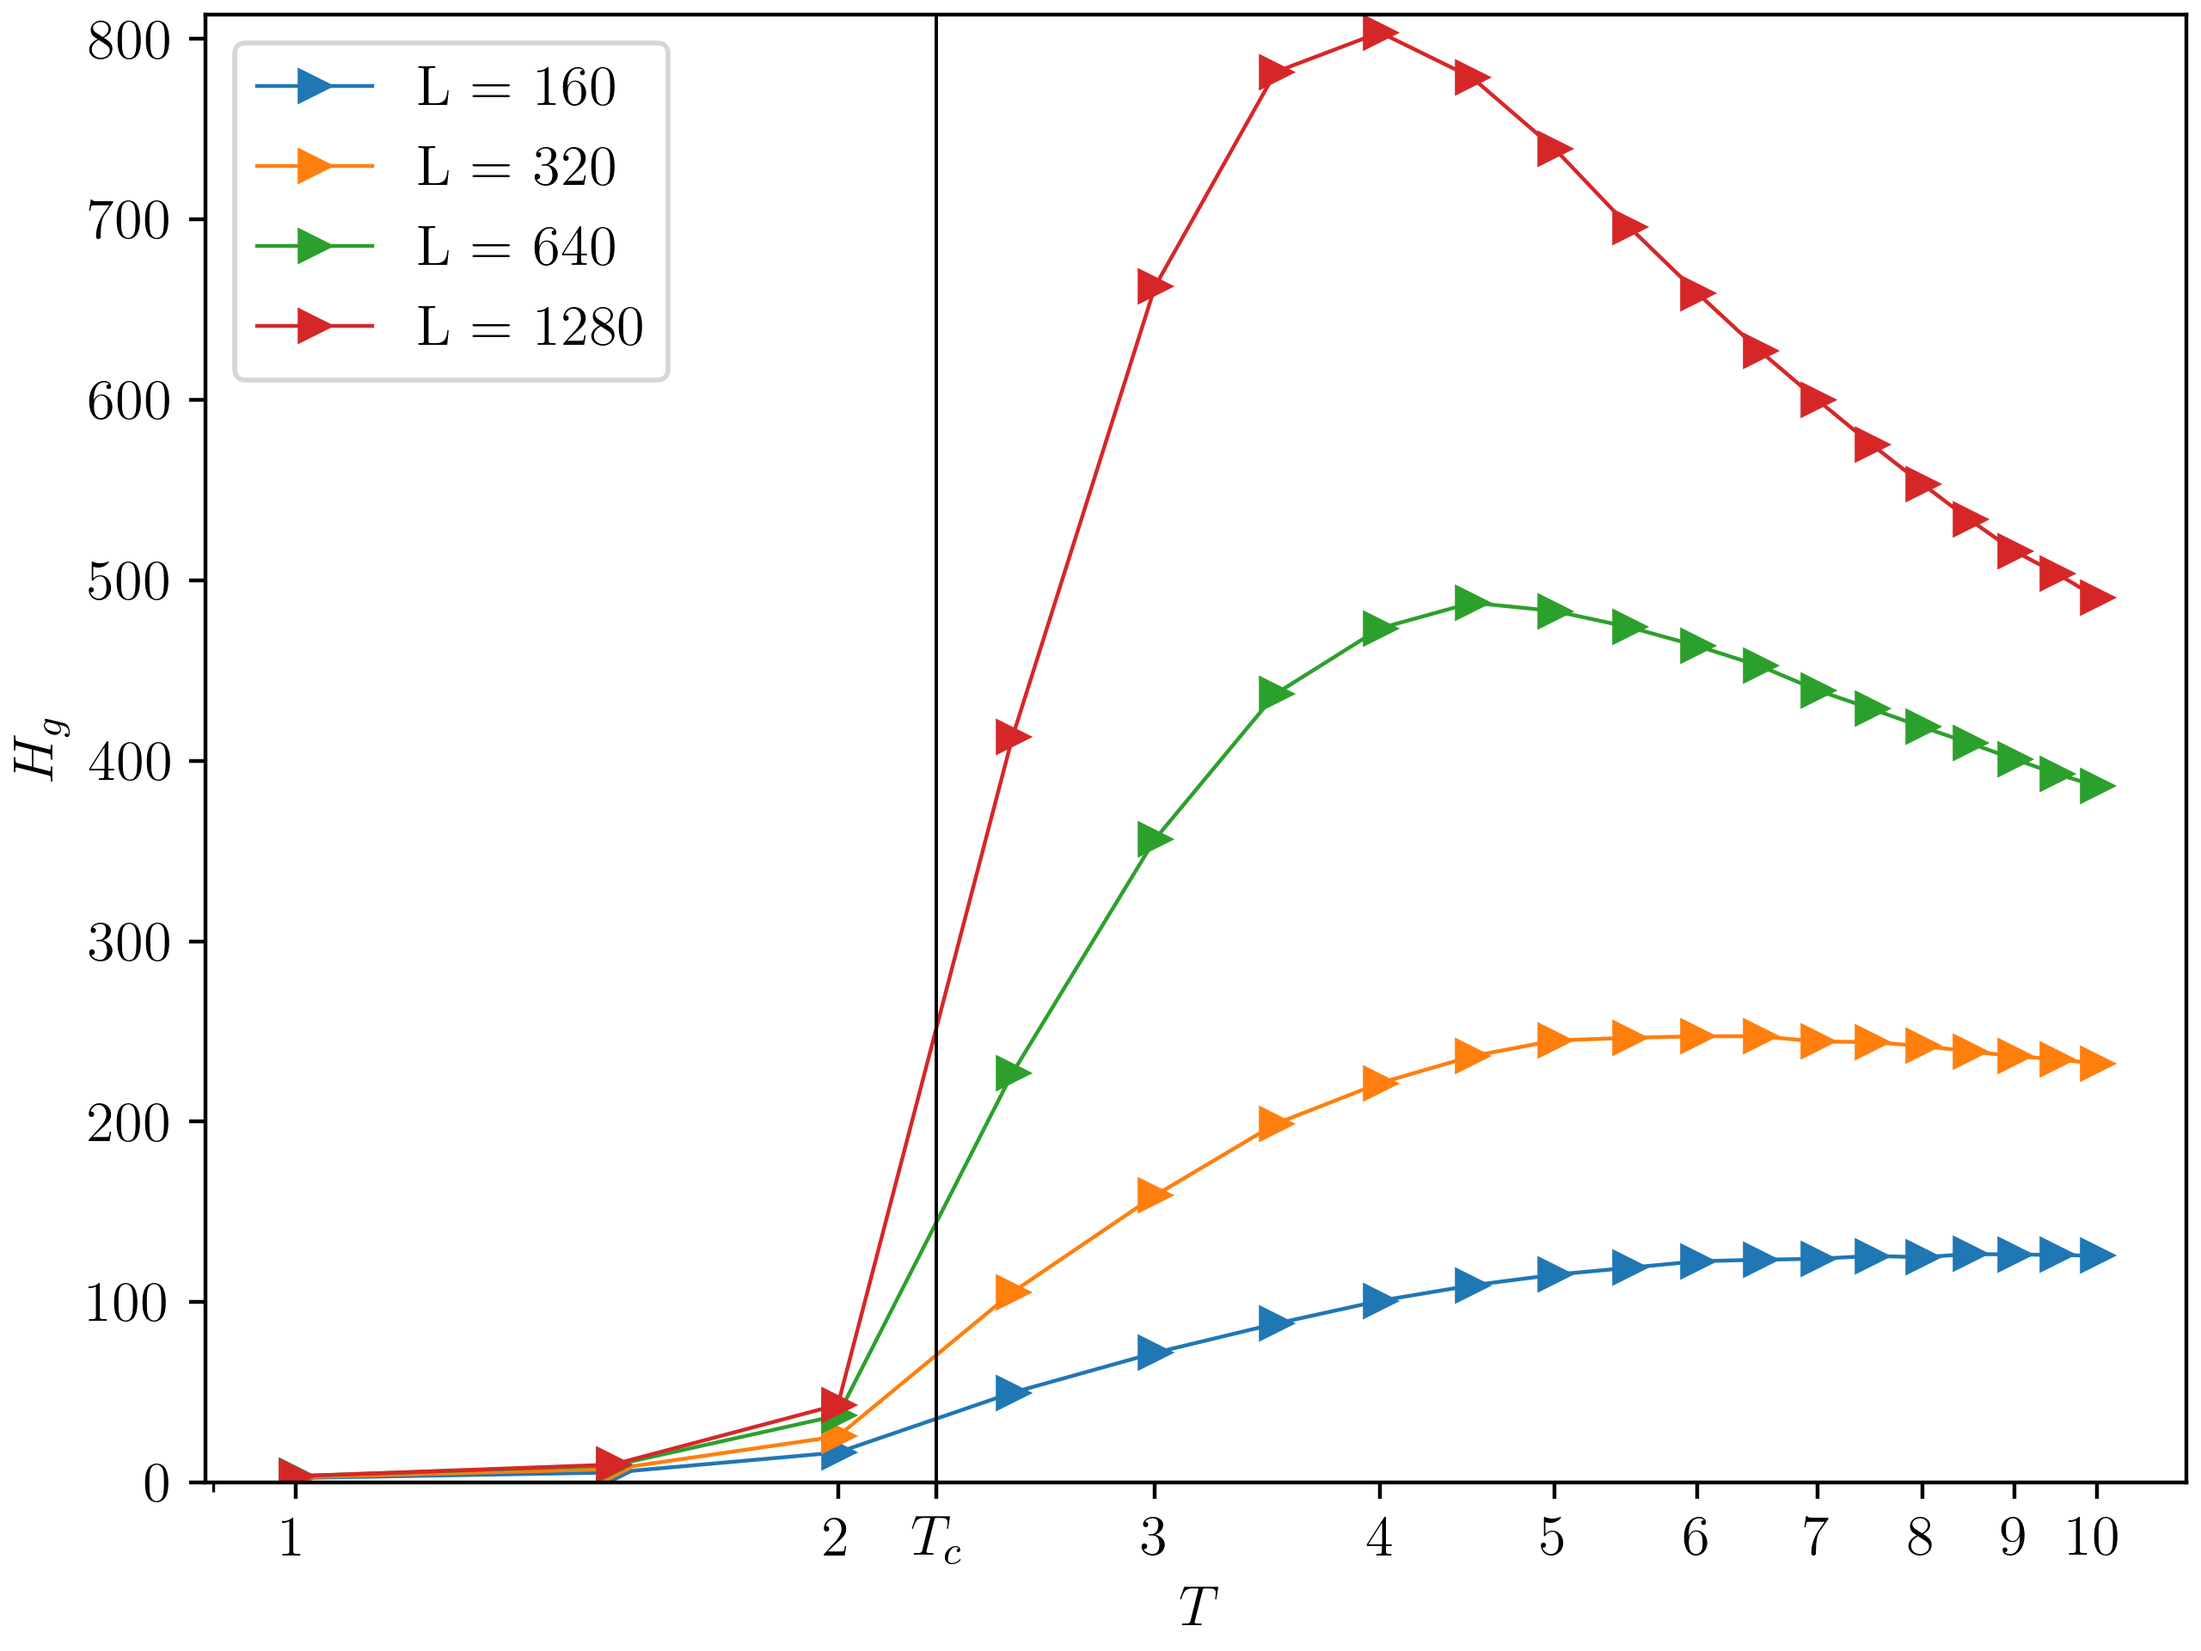
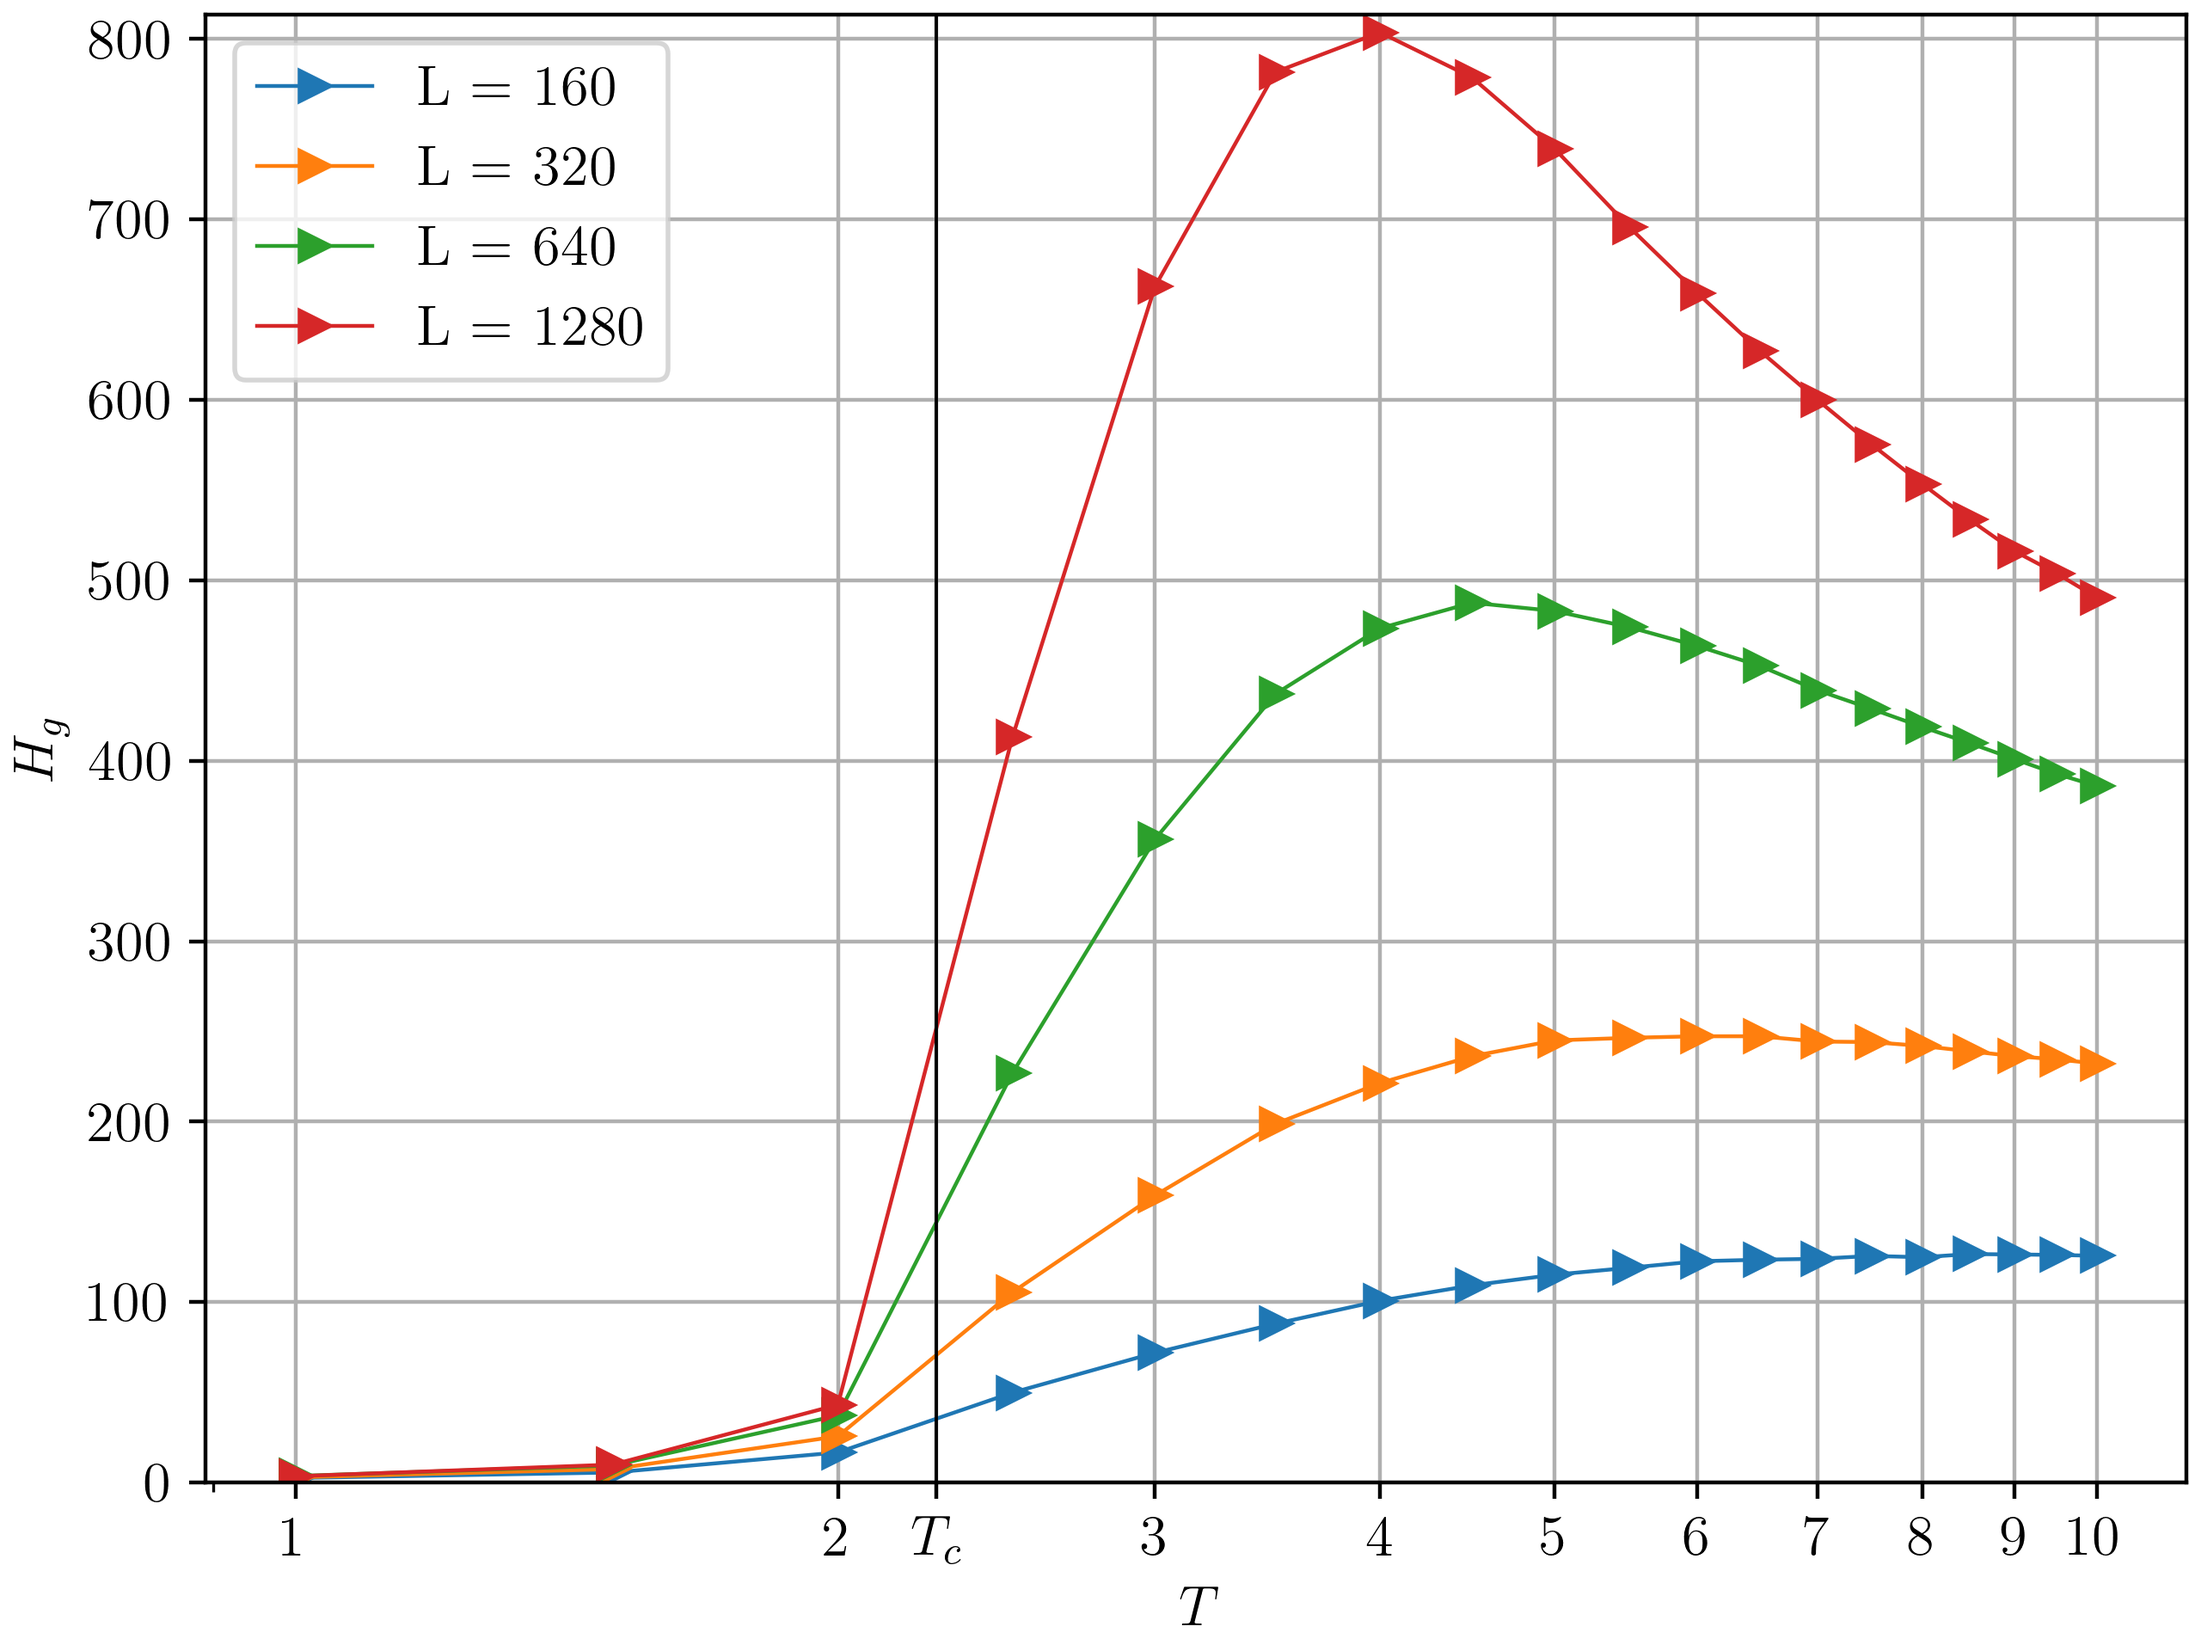
Atualização

diff --git a/ising/ising2D.c b/ising/ising2D.c
@@ -16,28 +16,28 @@ ELE NÃO CRIA A PASTA, ELE SÓ RECEBE O NOME DELA E BOTA OS ARQUIVOS LÁ
 */
 #include "lib.h"
 
-#define PASTA "samples_L_200" // Define o nome da pasta na qual serão guardados os arquivos de saída 
+#define PASTA "dense_hg_L_1280" // Define o nome da pasta na qual serão guardados os arquivos de saída 
 #define SEED 0          // Define a Seed: se 0 pega do relogio do sistema
-#define L 200           // Aresta da Rede
+#define L 1280           // Aresta da Rede
 #define STEPS 1000      // Número de MCS no equilíbrio
 #define RND 1           // 0: inicialização da rede toda com spin 1 || 1: inicialização aleatória da rede
 #define IMG 0           // Para gravar snapshots
 #define CI 0            // Para gravar a condição inicial
-#define TI 2.        // Temperatura inicial
-#define TF 10.        // Temperatua final
-#define dT 0.5          // Delta T
+#define TI 3.5        // Temperatura inicial
+#define TF 4.5        // Temperatua final
+#define dT 0.05          // Delta T
 #define TRANS 5000      // Número de MCS para jogar fora (transiente)
 #define CR 0            // Gravar a Correlação espacial
-#define HK 0            // Identificar clusters: 0 não mede, 1 mede tudo, 2 mede só o Hg
+#define HK 2            // Identificar clusters: 0 não mede, 1 mede tudo, 2 mede só o Hg
 #define SNAP 0          // Takes a snapshot of the moment
 #define CLS 0           // Saves the size of each cluster
 #define MES 0           // 0 doesn't mesure Energy and Magnetization and time correlation
-#define N1 1            // Counts the number of isolated spins
+#define N1 0            // Counts the number of isolated spins
 
 
 int main(int argc, char *argv[]){
     // Changing stack size for recursive function
-    const rlim_t kStackSize = 16L * 1024L * 1024L;   // min stack size = 16 Mb
+    const rlim_t kStackSize = 32L * 1024L * 1024L;   // min stack size = 16 Mb
     struct rlimit rl;
     int result;
     result = getrlimit(RLIMIT_STACK, &rl);
@@ -69,7 +69,7 @@ int main(int argc, char *argv[]){
     do{ 
         sprintf(command, "find %s/ -name *%d.dat", PASTA, seed);
         readfile = popen(command, "r");
-        chars_read = fread(buffer, sizeof(char), BUFSIZ, readfile);
+        chars_read = fread(buffer, sizeof(char), BUFSIZ+1, readfile);
         if(chars_read > 0){
             seed += 2;
         }else{

diff --git a/ising/lonelyplot.py b/ising/lonelyplot.py
@@ -2,10 +2,10 @@ import matplotlib.pyplot as plt
 import numpy as np
 plt.rcParams.update({"text.usetex" : True, "font.family" : "serif", "font.serif" : ["Computer Modern Serif"], "font.size" : 12})
 
-L = 200
+L = 500
 TI = 2
-TF = 10
-dT = 0.5
+TF = 3
+dT = 0.03
 
 n1 = np.loadtxt(f'n1_L_{L}.dat')
 T = np.arange(TI, TF+dT, dT)
@@ -17,8 +17,9 @@ plt.legend()
 #plt.xscale('log')
 plt.xlabel(r'$T$')
 plt.ylabel(r'$\left \langle n_{1}\right \rangle/L^{2}$')
-plt.ylim(0, max(n1)*1.1)
-#plt.xticks([1, 2, 2.269, 3,  4, 5, 6, 7, 8, 9, 10], [1, 2, r'$T_{c}$', 3, 4, 5, 6, 7, 8, 9, 10])
+plt.ylim(min(n1)*0.95, max(n1)*1.05)
+plt.xticks([2, 2.1, 2.2, 2.269, 2.4, 2.5, 2.6, 2.7, 2.8, 2.9, 3], [2, 2.1, 2.2, r'$T_{c}$', 2.4, 2.5, 2.6, 2.7, 2.8, 2.9, 3])
+plt.grid()
 plt.savefig('n1.png', dpi=400)
 
 

diff --git a/ising/HG-medidas/heterogeneity.py b/ising/HG-medidas/heterogeneity.py
@@ -26,5 +26,6 @@ plt.xlabel(r'$T$')
 plt.ylabel(r'$H_{g}$')
 plt.ylim(0, max(H[-1])+10)
 plt.xticks([1, 2, 2.269, 3,  4, 5, 6, 7, 8, 9, 10], [1, 2, r'$T_{c}$', 3, 4, 5, 6, 7, 8, 9, 10])
+plt.grid()
 plt.savefig('hetero.png', dpi=400)
 
